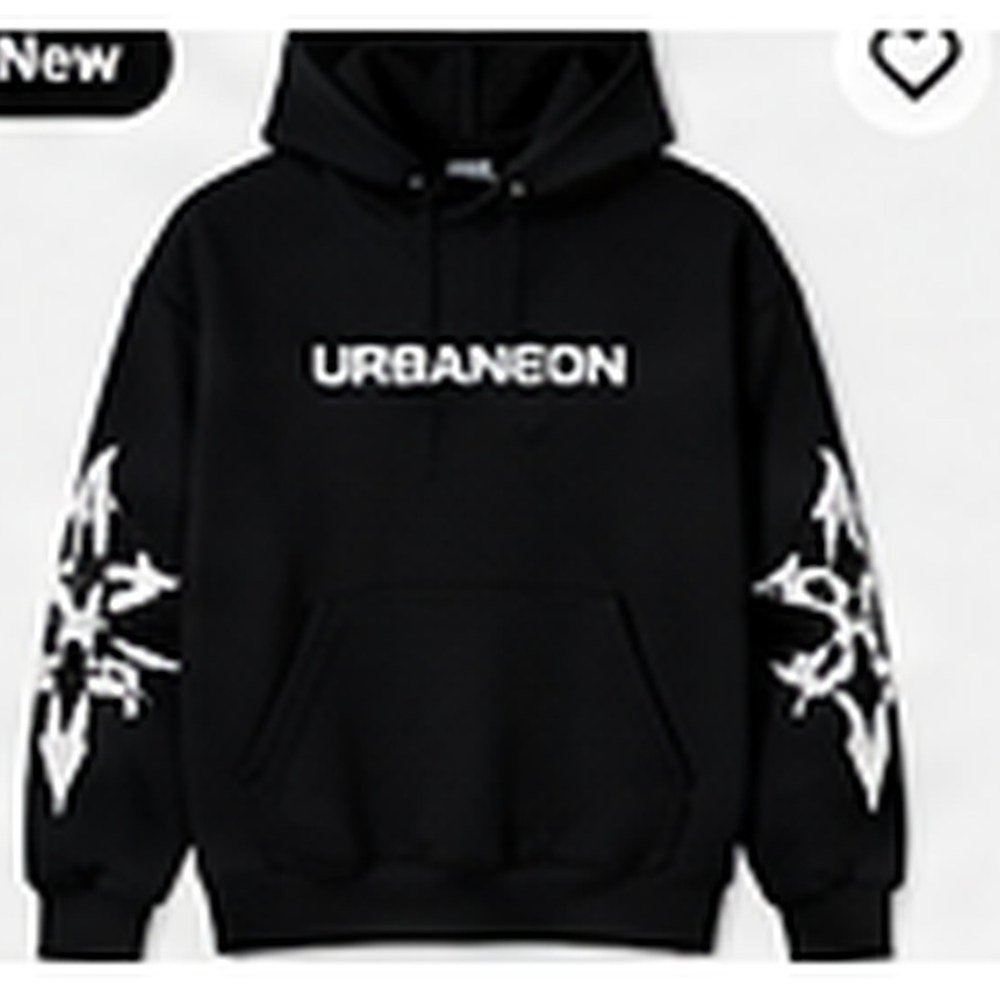
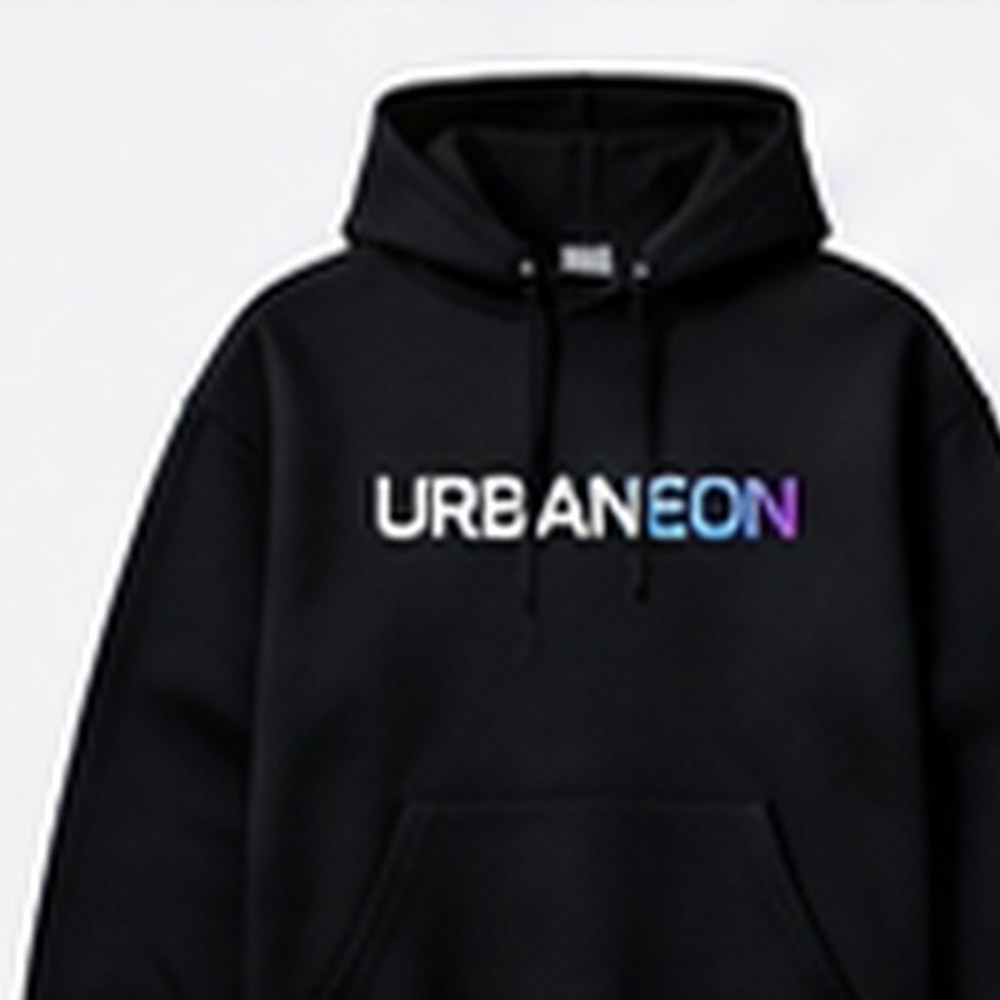
Add files via upload

diff --git a/CHANGELOG.md b/CHANGELOG.md
@@ -1,9 +1,8 @@
 # Changelog
 
-## V2 — 2026-09-25
-- Refined product-image presentation without changing the approved layout.
-- Centered product photography consistently with `object-position: center`.
-- Added slightly more internal image breathing room so products sit naturally inside their cards.
-- Centered category photography and prevented edge-cropping in category tiles.
-- Increased desktop product-media height slightly for a cleaner visual balance.
-- Kept the existing catalog, interactions, pages and branding unchanged.
+## V3 — 2026-09-25
+- Corrected the actual image-source problem found in V2.
+- Removed product screenshots containing baked-in badges, wishlist icons, side rails and promotional UI.
+- Reassigned affected products to clean product photography and reframed the remaining sneaker image.
+- Added clean Pexels photography for jacket, sunglasses and backpack entries.
+- Kept the approved URBANEON design, catalog structure and ecommerce interactions intact.

diff --git a/IMAGE-SOURCES-V3.md b/IMAGE-SOURCES-V3.md
@@ -1,0 +1,6 @@
+# URBANEON V3 — Image Sources
+
+- Product photography is presented without storefront UI overlays.
+- Several original source images contained baked-in badges, wishlist icons or promotional text; those assets were replaced or reframed.
+- Pexels free-use photography is used for the jacket, sunglasses and backpack entries where clean source photography was needed.
+- Remote image URLs are used only for those three catalog entries.
